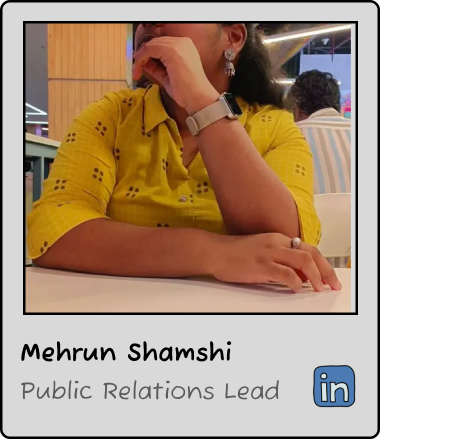
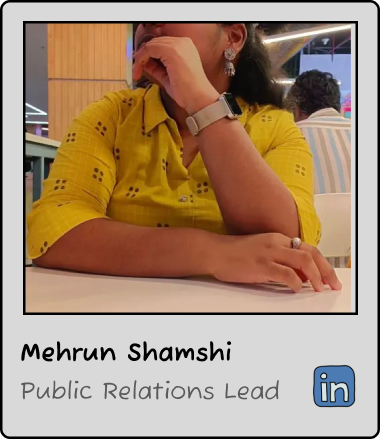
photos look better now, after cropping transparent parts

diff --git a/src/components/Events.jsx b/src/components/Events.jsx
@@ -37,15 +37,19 @@ const Events = () => {
 
   const scroll = (direction) => {
     if (carouselref.current) {
-      if (direction=="left"){
-        var scrollamount = -300;
+      var scrollamount;
+      if (direction==="left"){
+        scrollamount = -300;
       }
-      else if (direction=="right"){
-        var scrollamount = 300;
+      else if (direction==="right"){
+        scrollamount = 300;
       }
       carouselref.current.scrollLeft += scrollamount;
+      
     }
   }
+
+
 
   return (
     <section id="events" className="events">
@@ -54,7 +58,7 @@ const Events = () => {
       </div>
       <div className="carousel" ref={carouselref}>
         <div className="left">
-          <img src={leftarrow} onClick={() => scroll("left")} />
+          <img src={leftarrow} onClick={() => scroll("left")} alt="left" />
         </div>
         {/* <Carousel responsive={responsive}> */}
         {/* <Group className="group" /> */}
@@ -83,7 +87,7 @@ const Events = () => {
           <img src={group8} alt="group8" className="events-image" />
         </a>
         <div className="right">
-          <img src={rightarrow} onClick={() => scroll("right")} />
+          <img src={rightarrow} onClick={() => scroll("right")} alt="right"/>
         </div>
       </div>
     </section>

diff --git a/src/components/team.css b/src/components/team.css
@@ -49,7 +49,7 @@
     .team-member img {
         width: 300px;
         height: 300px;
-        object-fit: cover;
+        object-fit: contain;
     }
 
     .tech-leads {
@@ -79,7 +79,7 @@
     .team-member img {
         width: 550px;
         height:550px;
-        object-fit: cover;
+        object-fit: contain;
     }
 }
 
@@ -87,7 +87,7 @@
     .team-member img {
         width: 250px;
         height: 250px;
-        object-fit: cover;
+        object-fit: contain;
     }
     .team-image{
         width: 80%;

diff --git a/src/App.js b/src/App.js
@@ -1,5 +1,5 @@
 import React from 'react'
-import { BrowserRouter as Router,Routes,Route} from 'react-router-dom'
+import { BrowserRouter as Router} from 'react-router-dom'
 import Header from './components/header'
 import Home from './components/home'
 import Events from './components/Events'
